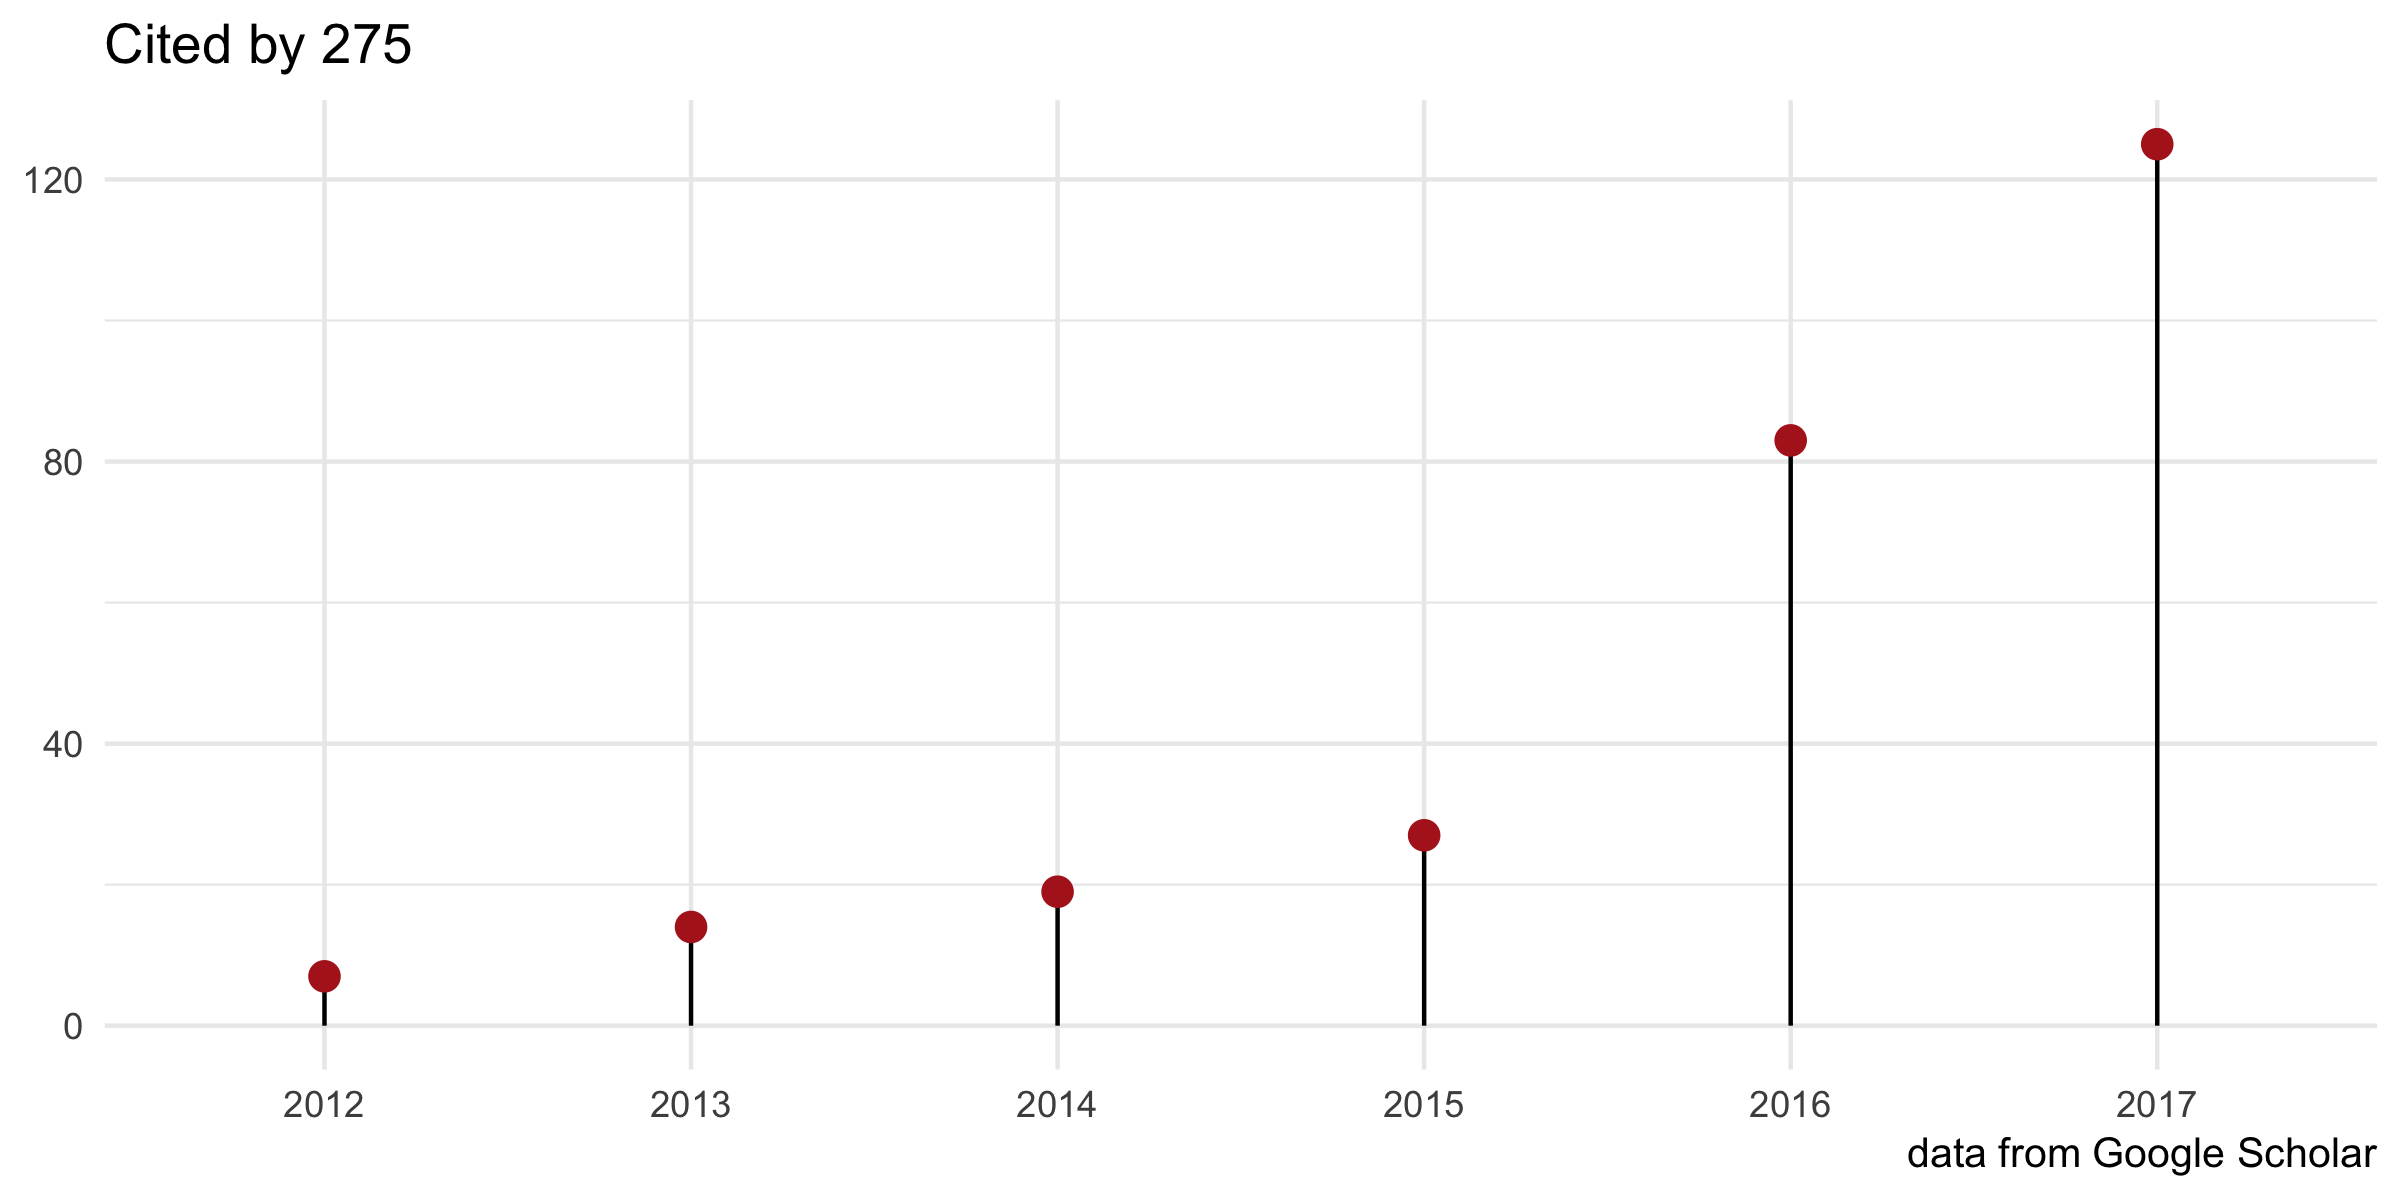
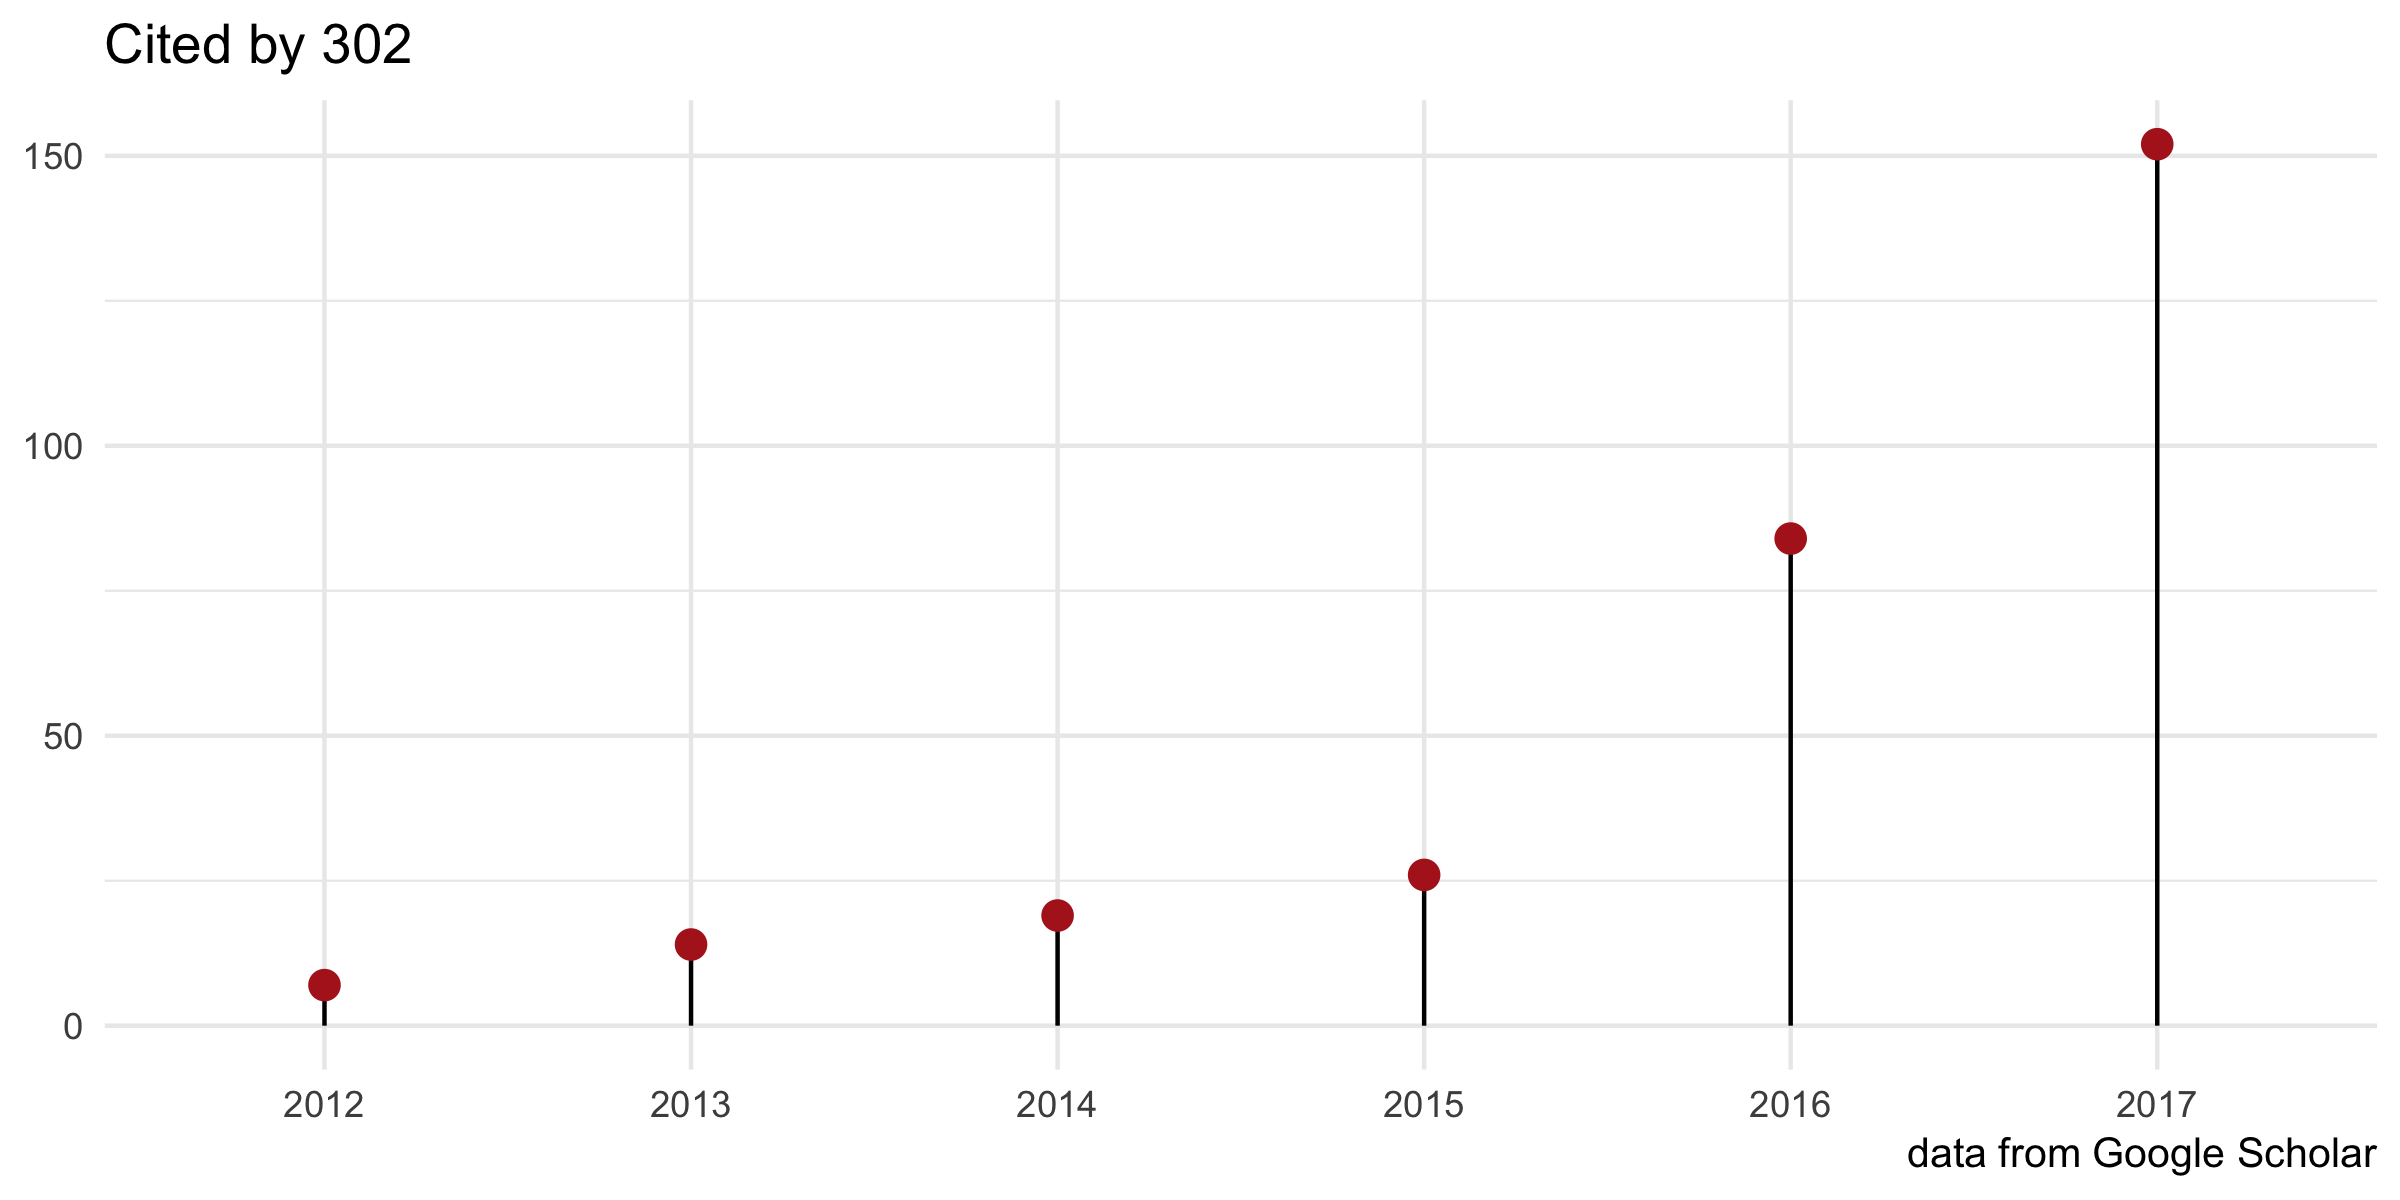
update docs

diff --git a/README.md b/README.md
@@ -3,9 +3,9 @@ clusterProfiler
 
 <img src="https://raw.githubusercontent.com/Bioconductor/BiocStickers/master/clusterProfiler/clusterProfiler.png" height="200" align="right" />
 
-[![releaseVersion](https://img.shields.io/badge/release%20version-3.4.4-green.svg?style=flat)](https://bioconductor.org/packages/clusterProfiler) [![develVersion](https://img.shields.io/badge/devel%20version-3.5.6-green.svg?style=flat)](https://github.com/guangchuangyu/clusterProfiler) [![Bioc](http://www.bioconductor.org/shields/years-in-bioc/clusterProfiler.svg)](https://www.bioconductor.org/packages/devel/bioc/html/clusterProfiler.html#since) [![total](https://img.shields.io/badge/downloads-49804/total-blue.svg?style=flat)](https://bioconductor.org/packages/stats/bioc/clusterProfiler) [![month](https://img.shields.io/badge/downloads-1929/month-blue.svg?style=flat)](https://bioconductor.org/packages/stats/bioc/clusterProfiler)
+[![releaseVersion](https://img.shields.io/badge/release%20version-3.6.0-green.svg?style=flat)](https://bioconductor.org/packages/clusterProfiler) [![develVersion](https://img.shields.io/badge/devel%20version-3.7.0-green.svg?style=flat)](https://github.com/guangchuangyu/clusterProfiler) [![Bioc](http://www.bioconductor.org/shields/years-in-bioc/clusterProfiler.svg)](https://www.bioconductor.org/packages/devel/bioc/html/clusterProfiler.html#since) [![total](https://img.shields.io/badge/downloads-51871/total-blue.svg?style=flat)](https://bioconductor.org/packages/stats/bioc/clusterProfiler) [![month](https://img.shields.io/badge/downloads-2168/month-blue.svg?style=flat)](https://bioconductor.org/packages/stats/bioc/clusterProfiler)
 
-[![Project Status: Active - The project has reached a stable, usable state and is being actively developed.](http://www.repostatus.org/badges/latest/active.svg)](http://www.repostatus.org/#active) [![codecov](https://codecov.io/gh/GuangchuangYu/clusterProfiler/branch/master/graph/badge.svg)](https://codecov.io/gh/GuangchuangYu/clusterProfiler/) [![Last-changedate](https://img.shields.io/badge/last%20change-2017--10--09-green.svg)](https://github.com/GuangchuangYu/clusterProfiler/commits/master) [![commit](http://www.bioconductor.org/shields/commits/bioc/clusterProfiler.svg)](https://www.bioconductor.org/packages/devel/bioc/html/clusterProfiler.html#svn_source) [![GitHub forks](https://img.shields.io/github/forks/GuangchuangYu/clusterProfiler.svg)](https://github.com/GuangchuangYu/clusterProfiler/network) [![GitHub stars](https://img.shields.io/github/stars/GuangchuangYu/clusterProfiler.svg)](https://github.com/GuangchuangYu/clusterProfiler/stargazers)
+[![Project Status: Active - The project has reached a stable, usable state and is being actively developed.](http://www.repostatus.org/badges/latest/active.svg)](http://www.repostatus.org/#active) [![codecov](https://codecov.io/gh/GuangchuangYu/clusterProfiler/branch/master/graph/badge.svg)](https://codecov.io/gh/GuangchuangYu/clusterProfiler/) [![Last-changedate](https://img.shields.io/badge/last%20change-2017--11--07-green.svg)](https://github.com/GuangchuangYu/clusterProfiler/commits/master) [![commit](http://www.bioconductor.org/shields/commits/bioc/clusterProfiler.svg)](https://www.bioconductor.org/packages/devel/bioc/html/clusterProfiler.html#svn_source) [![GitHub forks](https://img.shields.io/github/forks/GuangchuangYu/clusterProfiler.svg)](https://github.com/GuangchuangYu/clusterProfiler/network) [![GitHub stars](https://img.shields.io/github/stars/GuangchuangYu/clusterProfiler.svg)](https://github.com/GuangchuangYu/clusterProfiler/stargazers)
 
 [![platform](http://www.bioconductor.org/shields/availability/devel/clusterProfiler.svg)](https://www.bioconductor.org/packages/devel/bioc/html/clusterProfiler.html#archives) [![Build Status](http://www.bioconductor.org/shields/build/devel/bioc/clusterProfiler.svg)](https://bioconductor.org/checkResults/devel/bioc-LATEST/clusterProfiler/) [![Linux/Mac Travis Build Status](https://img.shields.io/travis/GuangchuangYu/clusterProfiler/master.svg?label=Mac%20OSX%20%26%20Linux)](https://travis-ci.org/GuangchuangYu/clusterProfiler) [![AppVeyor Build Status](https://img.shields.io/appveyor/ci/Guangchuangyu/clusterProfiler/master.svg?label=Windows)](https://ci.appveyor.com/project/GuangchuangYu/clusterProfiler)
 
@@ -31,12 +31,12 @@ Please cite the following article when using `clusterProfiler`:
 
 ### Citation
 
-[![](https://img.shields.io/badge/2nd%20most%20cited%20paper-in%20OMICS-green.svg?style=flat)](http://online.liebertpub.com/action/showMostCitedArticles?journalCode=omi) [![citation](https://img.shields.io/badge/cited%20by-275-green.svg?style=flat)](https://scholar.google.com.hk/scholar?oi=bibs&hl=en&cites=2349076811020942117) ![](https://img.shields.io/badge/ESI-Highly%20Cited%20Paper-green.svg?style=flat)
+[![](https://img.shields.io/badge/2nd%20most%20cited%20paper-in%20OMICS-green.svg?style=flat)](http://online.liebertpub.com/action/showMostCitedArticles?journalCode=omi) [![citation](https://img.shields.io/badge/cited%20by-302-green.svg?style=flat)](https://scholar.google.com.hk/scholar?oi=bibs&hl=en&cites=2349076811020942117) ![](https://img.shields.io/badge/ESI-Highly%20Cited%20Paper-green.svg?style=flat)
 
 <img src="docs/images/citation.png" width="890"/>
 
 ### Download stats
 
-[![download](http://www.bioconductor.org/shields/downloads/clusterProfiler.svg)](https://bioconductor.org/packages/stats/bioc/clusterProfiler) [![total](https://img.shields.io/badge/downloads-49804/total-blue.svg?style=flat)](https://bioconductor.org/packages/stats/bioc/clusterProfiler) [![month](https://img.shields.io/badge/downloads-1929/month-blue.svg?style=flat)](https://bioconductor.org/packages/stats/bioc/clusterProfiler)
+[![download](http://www.bioconductor.org/shields/downloads/clusterProfiler.svg)](https://bioconductor.org/packages/stats/bioc/clusterProfiler) [![total](https://img.shields.io/badge/downloads-51871/total-blue.svg?style=flat)](https://bioconductor.org/packages/stats/bioc/clusterProfiler) [![month](https://img.shields.io/badge/downloads-2168/month-blue.svg?style=flat)](https://bioconductor.org/packages/stats/bioc/clusterProfiler)
 
 <img src="docs/images/dlstats.png" width="890"/>
